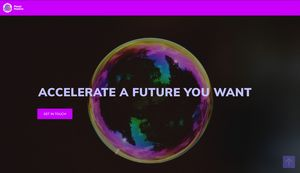
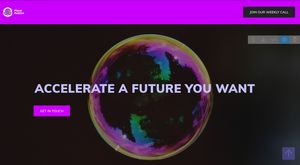
changed button title to weekly wisdom

diff --git a/index.html b/index.html
@@ -51,7 +51,7 @@ body{font-family: Muli;}blockquote{border-color: #7567f8;}div[submit-success] > 
 			<!-- Social -->
 			
 			<!-- Button -->
-             <div class="navbar-buttons mbr-section-btn mbr-py-3"><a class="btn btn-secondary display-4" href="weekly.html">JOIN OUR WEEKLY CALL</a></div>
+             <div class="navbar-buttons mbr-section-btn mbr-py-3"><a class="btn btn-secondary display-4" href="weekly.html">WEEKLY WISDOM</a></div>
 			
 		</div>
 	</amp-sidebar>
@@ -90,7 +90,7 @@ body{font-family: Muli;}blockquote{border-color: #7567f8;}div[submit-success] > 
 			<!-- Social -->
 			
 			<!-- Button -->
-             <div class="navbar-buttons mbr-section-btn mbr-py-3"><a class="btn btn-secondary display-4" href="weekly.html">JOIN OUR WEEKLY CALL</a></div>
+             <div class="navbar-buttons mbr-section-btn mbr-py-3"><a class="btn btn-secondary display-4" href="weekly.html">WEEKLY WISDOM</a></div>
 			
 		</div>
        
@@ -167,7 +167,7 @@ body{font-family: Muli;}blockquote{border-color: #7567f8;}div[submit-success] > 
                     <div class="item-wrapper mbr-p-3">
                         <div class="align-center">
                             <span class="iconfont-wrapper">
-                                <span class="amp-iconfont fa-pagelines fa"><svg width="48" height="48" viewBox="0 0 1792 1792" xmlns="http://www.w3.org/2000/svg" fill="currentColor"><path d="M1594 1103q-32 80-76 138t-91 88.5-99 46.5-101.5 14.5-96.5-8.5-86.5-22-69.5-27.5-46-22.5l-17-10q-113 228-289.5 359.5t-384.5 132.5q-19 0-32-13t-13-32 13-31.5 32-12.5q173-1 322.5-107.5t251.5-294.5q-36 14-72 23t-83 13-91-2.5-93-28.5-92-59-84.5-100-74.5-146q114-47 214-57t167.5 7.5 124.5 56.5 88.5 77 56.5 82q53-131 79-291-7 1-18 2.5t-46.5 2.5-69.5-.5-81.5-10-88.5-23-84-42.5-75-65-54.5-94.5-28.5-127.5q70-28 133.5-36.5t112.5 1 92 30 73.5 50 56 61 42 63 27.5 56 16 39.5l4 16q12-122 12-195-8-6-21.5-16t-49-44.5-63.5-71.5-54-93-33-112.5 12-127 70-138.5q73 25 127.5 61.5t84.5 76.5 48 85 20.5 89-.5 85.5-13 76.5-19 62-17 42l-7 15q1 4 1 50t-1 72q3-7 10-18.5t30.5-43 50.5-58 71-55.5 91.5-44.5 112-14.5 132.5 24q-2 78-21.5 141.5t-50 104.5-69.5 71.5-81.5 45.5-84.5 24-80 9.5-67.5-1-46.5-4.5l-17-3q-23 147-73 283 6-7 18-18.5t49.5-41 77.5-52.5 99.5-42 117.5-20 129 23.5 137 77.5z"></path></svg></span>
+                                <span class="amp-iconfont fa-pagelines fa"><svg width="100%" height="100%" viewBox="0 0 1792 1792" xmlns="http://www.w3.org/2000/svg" fill="currentColor"><path d="M1594 1103q-32 80-76 138t-91 88.5-99 46.5-101.5 14.5-96.5-8.5-86.5-22-69.5-27.5-46-22.5l-17-10q-113 228-289.5 359.5t-384.5 132.5q-19 0-32-13t-13-32 13-31.5 32-12.5q173-1 322.5-107.5t251.5-294.5q-36 14-72 23t-83 13-91-2.5-93-28.5-92-59-84.5-100-74.5-146q114-47 214-57t167.5 7.5 124.5 56.5 88.5 77 56.5 82q53-131 79-291-7 1-18 2.5t-46.5 2.5-69.5-.5-81.5-10-88.5-23-84-42.5-75-65-54.5-94.5-28.5-127.5q70-28 133.5-36.5t112.5 1 92 30 73.5 50 56 61 42 63 27.5 56 16 39.5l4 16q12-122 12-195-8-6-21.5-16t-49-44.5-63.5-71.5-54-93-33-112.5 12-127 70-138.5q73 25 127.5 61.5t84.5 76.5 48 85 20.5 89-.5 85.5-13 76.5-19 62-17 42l-7 15q1 4 1 50t-1 72q3-7 10-18.5t30.5-43 50.5-58 71-55.5 91.5-44.5 112-14.5 132.5 24q-2 78-21.5 141.5t-50 104.5-69.5 71.5-81.5 45.5-84.5 24-80 9.5-67.5-1-46.5-4.5l-17-3q-23 147-73 283 6-7 18-18.5t49.5-41 77.5-52.5 99.5-42 117.5-20 129 23.5 137 77.5z"></path></svg></span>
                             </span>
                         </div>
                         <h5 class="item-title mbr-fonts-style mbr-bold display-4 align-center mbr-pt-4">BIODIVERSITY PROTECTION</h5>
@@ -182,7 +182,7 @@ body{font-family: Muli;}blockquote{border-color: #7567f8;}div[submit-success] > 
                     <div class="item-wrapper mbr-p-3">
                         <div class="align-center">
                             <span class="iconfont-wrapper">
-                                <span class="amp-iconfont fa-refresh fa"><svg width="48" height="48" viewBox="0 0 1792 1792" xmlns="http://www.w3.org/2000/svg" fill="currentColor"><path d="M1639 1056q0 5-1 7-64 268-268 434.5t-478 166.5q-146 0-282.5-55t-243.5-157l-129 129q-19 19-45 19t-45-19-19-45v-448q0-26 19-45t45-19h448q26 0 45 19t19 45-19 45l-137 137q71 66 161 102t187 36q134 0 250-65t186-179q11-17 53-117 8-23 30-23h192q13 0 22.5 9.5t9.5 22.5zm25-800v448q0 26-19 45t-45 19h-448q-26 0-45-19t-19-45 19-45l138-138q-148-137-349-137-134 0-250 65t-186 179q-11 17-53 117-8 23-30 23h-199q-13 0-22.5-9.5t-9.5-22.5v-7q65-268 270-434.5t480-166.5q146 0 284 55.5t245 156.5l130-129q19-19 45-19t45 19 19 45z"></path></svg></span>
+                                <span class="amp-iconfont fa-refresh fa"><svg width="100%" height="100%" viewBox="0 0 1792 1792" xmlns="http://www.w3.org/2000/svg" fill="currentColor"><path d="M1639 1056q0 5-1 7-64 268-268 434.5t-478 166.5q-146 0-282.5-55t-243.5-157l-129 129q-19 19-45 19t-45-19-19-45v-448q0-26 19-45t45-19h448q26 0 45 19t19 45-19 45l-137 137q71 66 161 102t187 36q134 0 250-65t186-179q11-17 53-117 8-23 30-23h192q13 0 22.5 9.5t9.5 22.5zm25-800v448q0 26-19 45t-45 19h-448q-26 0-45-19t-19-45 19-45l138-138q-148-137-349-137-134 0-250 65t-186 179q-11 17-53 117-8 23-30 23h-199q-13 0-22.5-9.5t-9.5-22.5v-7q65-268 270-434.5t480-166.5q146 0 284 55.5t245 156.5l130-129q19-19 45-19t45 19 19 45z"></path></svg></span>
                             </span>
                         </div>
                         <h5 class="item-title mbr-fonts-style mbr-bold display-4 align-center mbr-pt-4">CIRCULAR ECONOMIES</h5>
@@ -197,7 +197,7 @@ body{font-family: Muli;}blockquote{border-color: #7567f8;}div[submit-success] > 
                     <div class="item-wrapper mbr-p-3">
                         <div class="align-center">
                             <span class="iconfont-wrapper">
-                                <span class="amp-iconfont fa-lightbulb-o fa"><svg width="48" height="48" viewBox="0 0 1792 1792" xmlns="http://www.w3.org/2000/svg" fill="currentColor"><path d="M1120 576q0 13-9.5 22.5t-22.5 9.5-22.5-9.5-9.5-22.5q0-46-54-71t-106-25q-13 0-22.5-9.5t-9.5-22.5 9.5-22.5 22.5-9.5q50 0 99.5 16t87 54 37.5 90zm160 0q0-72-34.5-134t-90-101.5-123-62-136.5-22.5-136.5 22.5-123 62-90 101.5-34.5 134q0 101 68 180 10 11 30.5 33t30.5 33q128 153 141 298h228q13-145 141-298 10-11 30.5-33t30.5-33q68-79 68-180zm128 0q0 155-103 268-45 49-74.5 87t-59.5 95.5-34 107.5q47 28 47 82 0 37-25 64 25 27 25 64 0 52-45 81 13 23 13 47 0 46-31.5 71t-77.5 25q-20 44-60 70t-87 26-87-26-60-70q-46 0-77.5-25t-31.5-71q0-24 13-47-45-29-45-81 0-37 25-64-25-27-25-64 0-54 47-82-4-50-34-107.5t-59.5-95.5-74.5-87q-103-113-103-268 0-99 44.5-184.5t117-142 164-89 186.5-32.5 186.5 32.5 164 89 117 142 44.5 184.5z"></path></svg></span>
+                                <span class="amp-iconfont fa-lightbulb-o fa"><svg width="100%" height="100%" viewBox="0 0 1792 1792" xmlns="http://www.w3.org/2000/svg" fill="currentColor"><path d="M1120 576q0 13-9.5 22.5t-22.5 9.5-22.5-9.5-9.5-22.5q0-46-54-71t-106-25q-13 0-22.5-9.5t-9.5-22.5 9.5-22.5 22.5-9.5q50 0 99.5 16t87 54 37.5 90zm160 0q0-72-34.5-134t-90-101.5-123-62-136.5-22.5-136.5 22.5-123 62-90 101.5-34.5 134q0 101 68 180 10 11 30.5 33t30.5 33q128 153 141 298h228q13-145 141-298 10-11 30.5-33t30.5-33q68-79 68-180zm128 0q0 155-103 268-45 49-74.5 87t-59.5 95.5-34 107.5q47 28 47 82 0 37-25 64 25 27 25 64 0 52-45 81 13 23 13 47 0 46-31.5 71t-77.5 25q-20 44-60 70t-87 26-87-26-60-70q-46 0-77.5-25t-31.5-71q0-24 13-47-45-29-45-81 0-37 25-64-25-27-25-64 0-54 47-82-4-50-34-107.5t-59.5-95.5-74.5-87q-103-113-103-268 0-99 44.5-184.5t117-142 164-89 186.5-32.5 186.5 32.5 164 89 117 142 44.5 184.5z"></path></svg></span>
                             </span>
                         </div>
                         <h5 class="item-title mbr-fonts-style mbr-bold display-4 align-center mbr-pt-4">SMART CITIES</h5>
@@ -228,7 +228,7 @@ body{font-family: Muli;}blockquote{border-color: #7567f8;}div[submit-success] > 
                     <div class="item-wrapper mbr-p-3">
                         <div class="align-center">
                             <span class="iconfont-wrapper">
-                                <span class="amp-iconfont fa-heartbeat fa"><svg width="48" height="48" viewBox="0 0 1792 1792" xmlns="http://www.w3.org/2000/svg" fill="currentColor"><path d="M1280 1024h305q-5 6-10 10.5t-9 7.5l-3 4-623 600q-18 18-44 18t-44-18l-624-602q-5-2-21-20h369q22 0 39.5-13.5t22.5-34.5l70-281 190 667q6 20 23 33t39 13q21 0 38-13t23-33l146-485 56 112q18 35 57 35zm512-428q0 145-103 300h-369l-111-221q-8-17-25.5-27t-36.5-8q-45 5-56 46l-129 430-196-686q-6-20-23.5-33t-39.5-13-39 13.5-22 34.5l-116 464h-423q-103-155-103-300 0-220 127-344t351-124q62 0 126.5 21.5t120 58 95.5 68.5 76 68q36-36 76-68t95.5-68.5 120-58 126.5-21.5q224 0 351 124t127 344z"></path></svg></span>
+                                <span class="amp-iconfont fa-heartbeat fa"><svg width="100%" height="100%" viewBox="0 0 1792 1792" xmlns="http://www.w3.org/2000/svg" fill="currentColor"><path d="M1280 1024h305q-5 6-10 10.5t-9 7.5l-3 4-623 600q-18 18-44 18t-44-18l-624-602q-5-2-21-20h369q22 0 39.5-13.5t22.5-34.5l70-281 190 667q6 20 23 33t39 13q21 0 38-13t23-33l146-485 56 112q18 35 57 35zm512-428q0 145-103 300h-369l-111-221q-8-17-25.5-27t-36.5-8q-45 5-56 46l-129 430-196-686q-6-20-23.5-33t-39.5-13-39 13.5-22 34.5l-116 464h-423q-103-155-103-300 0-220 127-344t351-124q62 0 126.5 21.5t120 58 95.5 68.5 76 68q36-36 76-68t95.5-68.5 120-58 126.5-21.5q224 0 351 124t127 344z"></path></svg></span>
                             </span>
                         </div>
                         <h5 class="item-title mbr-fonts-style mbr-bold display-4 align-center mbr-pt-4">REGENERATIVE ECO-SYSTEMS</h5>
@@ -243,7 +243,7 @@ body{font-family: Muli;}blockquote{border-color: #7567f8;}div[submit-success] > 
                     <div class="item-wrapper mbr-p-3">
                         <div class="align-center">
                             <span class="iconfont-wrapper">
-                                <span class="amp-iconfont fa-flash fa"><svg width="48" height="48" viewBox="0 0 1792 1792" xmlns="http://www.w3.org/2000/svg" fill="currentColor"><path d="M1333 566q18 20 7 44l-540 1157q-13 25-42 25-4 0-14-2-17-5-25.5-19t-4.5-30l197-808-406 101q-4 1-12 1-18 0-31-11-18-15-13-39l201-825q4-14 16-23t28-9h328q19 0 32 12.5t13 29.5q0 8-5 18l-171 463 396-98q8-2 12-2 19 0 34 15z"></path></svg></span>
+                                <span class="amp-iconfont fa-flash fa"><svg width="100%" height="100%" viewBox="0 0 1792 1792" xmlns="http://www.w3.org/2000/svg" fill="currentColor"><path d="M1333 566q18 20 7 44l-540 1157q-13 25-42 25-4 0-14-2-17-5-25.5-19t-4.5-30l197-808-406 101q-4 1-12 1-18 0-31-11-18-15-13-39l201-825q4-14 16-23t28-9h328q19 0 32 12.5t13 29.5q0 8-5 18l-171 463 396-98q8-2 12-2 19 0 34 15z"></path></svg></span>
                             </span>
                         </div>
                         <h5 class="item-title mbr-fonts-style mbr-bold display-4 align-center mbr-pt-4">CLEAN ENERGY</h5>
@@ -258,7 +258,7 @@ body{font-family: Muli;}blockquote{border-color: #7567f8;}div[submit-success] > 
                     <div class="item-wrapper mbr-p-3">
                         <div class="align-center">
                             <span class="iconfont-wrapper">
-                                <span class="amp-iconfont fa-cloud fa"><svg width="48" height="48" viewBox="0 0 2048 1792" xmlns="http://www.w3.org/2000/svg" fill="currentColor"><path d="M1984 1152q0 159-112.5 271.5t-271.5 112.5h-1088q-185 0-316.5-131.5t-131.5-316.5q0-132 71-241.5t187-163.5q-2-28-2-43 0-212 150-362t362-150q158 0 286.5 88t187.5 230q70-62 166-62 106 0 181 75t75 181q0 75-41 138 129 30 213 134.5t84 239.5z"></path></svg></span>
+                                <span class="amp-iconfont fa-cloud fa"><svg width="100%" height="100%" viewBox="0 0 2048 1792" xmlns="http://www.w3.org/2000/svg" fill="currentColor"><path d="M1984 1152q0 159-112.5 271.5t-271.5 112.5h-1088q-185 0-316.5-131.5t-131.5-316.5q0-132 71-241.5t187-163.5q-2-28-2-43 0-212 150-362t362-150q158 0 286.5 88t187.5 230q70-62 166-62 106 0 181 75t75 181q0 75-41 138 129 30 213 134.5t84 239.5z"></path></svg></span>
                             </span>
                         </div>
                         <h5 class="item-title mbr-fonts-style mbr-bold display-4 align-center mbr-pt-4">FOOD &amp; WATER</h5>
@@ -293,7 +293,7 @@ body{font-family: Muli;}blockquote{border-color: #7567f8;}div[submit-success] > 
                 <div class="block block1 mbr-px-2">
                     <div class="top-line mbr-pb-2 mbr-flex mbr-jc-s">
                         <div class="wrapper-icon">
-                            <span class="amp-iconfont fa-heart fa"><svg width="24" height="24" viewBox="0 0 1792 1792" xmlns="http://www.w3.org/2000/svg" fill="currentColor"><path d="M896 1664q-26 0-44-18l-624-602q-10-8-27.5-26t-55.5-65.5-68-97.5-53.5-121-23.5-138q0-220 127-344t351-124q62 0 126.5 21.5t120 58 95.5 68.5 76 68q36-36 76-68t95.5-68.5 120-58 126.5-21.5q224 0 351 124t127 344q0 221-229 450l-623 600q-18 18-44 18z"></path></svg></span>
+                            <span class="amp-iconfont fa-heart fa"><svg width="100%" height="100%" viewBox="0 0 1792 1792" xmlns="http://www.w3.org/2000/svg" fill="currentColor"><path d="M896 1664q-26 0-44-18l-624-602q-10-8-27.5-26t-55.5-65.5-68-97.5-53.5-121-23.5-138q0-220 127-344t351-124q62 0 126.5 21.5t120 58 95.5 68.5 76 68q36-36 76-68t95.5-68.5 120-58 126.5-21.5q224 0 351 124t127 344q0 221-229 450l-623 600q-18 18-44 18z"></path></svg></span>
                         </div>
                         <h5 class="mbr-fonts-style mbr-bold display-7">CLIMATE SOLUTION GUIDANCE</h5>
                     </div>
@@ -305,7 +305,7 @@ body{font-family: Muli;}blockquote{border-color: #7567f8;}div[submit-success] > 
                 <div class="block block2 mbr-px-2">
                     <div class="top-line mbr-pb-2 mbr-flex mbr-jc-s">
                         <div class="wrapper-icon">
-                            <span class="amp-iconfont fa-heart fa"><svg width="24" height="24" viewBox="0 0 1792 1792" xmlns="http://www.w3.org/2000/svg" fill="currentColor"><path d="M896 1664q-26 0-44-18l-624-602q-10-8-27.5-26t-55.5-65.5-68-97.5-53.5-121-23.5-138q0-220 127-344t351-124q62 0 126.5 21.5t120 58 95.5 68.5 76 68q36-36 76-68t95.5-68.5 120-58 126.5-21.5q224 0 351 124t127 344q0 221-229 450l-623 600q-18 18-44 18z"></path></svg></span>
+                            <span class="amp-iconfont fa-heart fa"><svg width="100%" height="100%" viewBox="0 0 1792 1792" xmlns="http://www.w3.org/2000/svg" fill="currentColor"><path d="M896 1664q-26 0-44-18l-624-602q-10-8-27.5-26t-55.5-65.5-68-97.5-53.5-121-23.5-138q0-220 127-344t351-124q62 0 126.5 21.5t120 58 95.5 68.5 76 68q36-36 76-68t95.5-68.5 120-58 126.5-21.5q224 0 351 124t127 344q0 221-229 450l-623 600q-18 18-44 18z"></path></svg></span>
                         </div>
                         <h5 class="mbr-fonts-style mbr-bold display-7">PLANET POSITIVE POLLINATION</h5>
                     </div>
@@ -317,7 +317,7 @@ body{font-family: Muli;}blockquote{border-color: #7567f8;}div[submit-success] > 
                 <div class="block block3 mbr-px-2">
                     <div class="top-line mbr-pb-2 mbr-flex mbr-jc-s">
                         <div class="wrapper-icon">
-                            <span class="amp-iconfont fa-heart fa"><svg width="24" height="24" viewBox="0 0 1792 1792" xmlns="http://www.w3.org/2000/svg" fill="currentColor"><path d="M896 1664q-26 0-44-18l-624-602q-10-8-27.5-26t-55.5-65.5-68-97.5-53.5-121-23.5-138q0-220 127-344t351-124q62 0 126.5 21.5t120 58 95.5 68.5 76 68q36-36 76-68t95.5-68.5 120-58 126.5-21.5q224 0 351 124t127 344q0 221-229 450l-623 600q-18 18-44 18z"></path></svg></span>
+                            <span class="amp-iconfont fa-heart fa"><svg width="100%" height="100%" viewBox="0 0 1792 1792" xmlns="http://www.w3.org/2000/svg" fill="currentColor"><path d="M896 1664q-26 0-44-18l-624-602q-10-8-27.5-26t-55.5-65.5-68-97.5-53.5-121-23.5-138q0-220 127-344t351-124q62 0 126.5 21.5t120 58 95.5 68.5 76 68q36-36 76-68t95.5-68.5 120-58 126.5-21.5q224 0 351 124t127 344q0 221-229 450l-623 600q-18 18-44 18z"></path></svg></span>
                         </div>
                         <h5 class="mbr-fonts-style mbr-bold display-7">SEED &amp; ANGEL INVESTMENTS</h5>
                     </div>
@@ -329,7 +329,7 @@ body{font-family: Muli;}blockquote{border-color: #7567f8;}div[submit-success] > 
                 <div class="block block4 mbr-px-2">
                     <div class="top-line mbr-pb-2 mbr-flex mbr-jc-s">
                         <div class="wrapper-icon">
-                            <span class="amp-iconfont fa-heart fa"><svg width="24" height="24" viewBox="0 0 1792 1792" xmlns="http://www.w3.org/2000/svg" fill="currentColor"><path d="M896 1664q-26 0-44-18l-624-602q-10-8-27.5-26t-55.5-65.5-68-97.5-53.5-121-23.5-138q0-220 127-344t351-124q62 0 126.5 21.5t120 58 95.5 68.5 76 68q36-36 76-68t95.5-68.5 120-58 126.5-21.5q224 0 351 124t127 344q0 221-229 450l-623 600q-18 18-44 18z"></path></svg></span>
+                            <span class="amp-iconfont fa-heart fa"><svg width="100%" height="100%" viewBox="0 0 1792 1792" xmlns="http://www.w3.org/2000/svg" fill="currentColor"><path d="M896 1664q-26 0-44-18l-624-602q-10-8-27.5-26t-55.5-65.5-68-97.5-53.5-121-23.5-138q0-220 127-344t351-124q62 0 126.5 21.5t120 58 95.5 68.5 76 68q36-36 76-68t95.5-68.5 120-58 126.5-21.5q224 0 351 124t127 344q0 221-229 450l-623 600q-18 18-44 18z"></path></svg></span>
                         </div>
                         <h5 class="mbr-fonts-style mbr-bold display-7">CAPITAL &amp; DIRECT INVESTMENT&nbsp;</h5>
                     </div>
